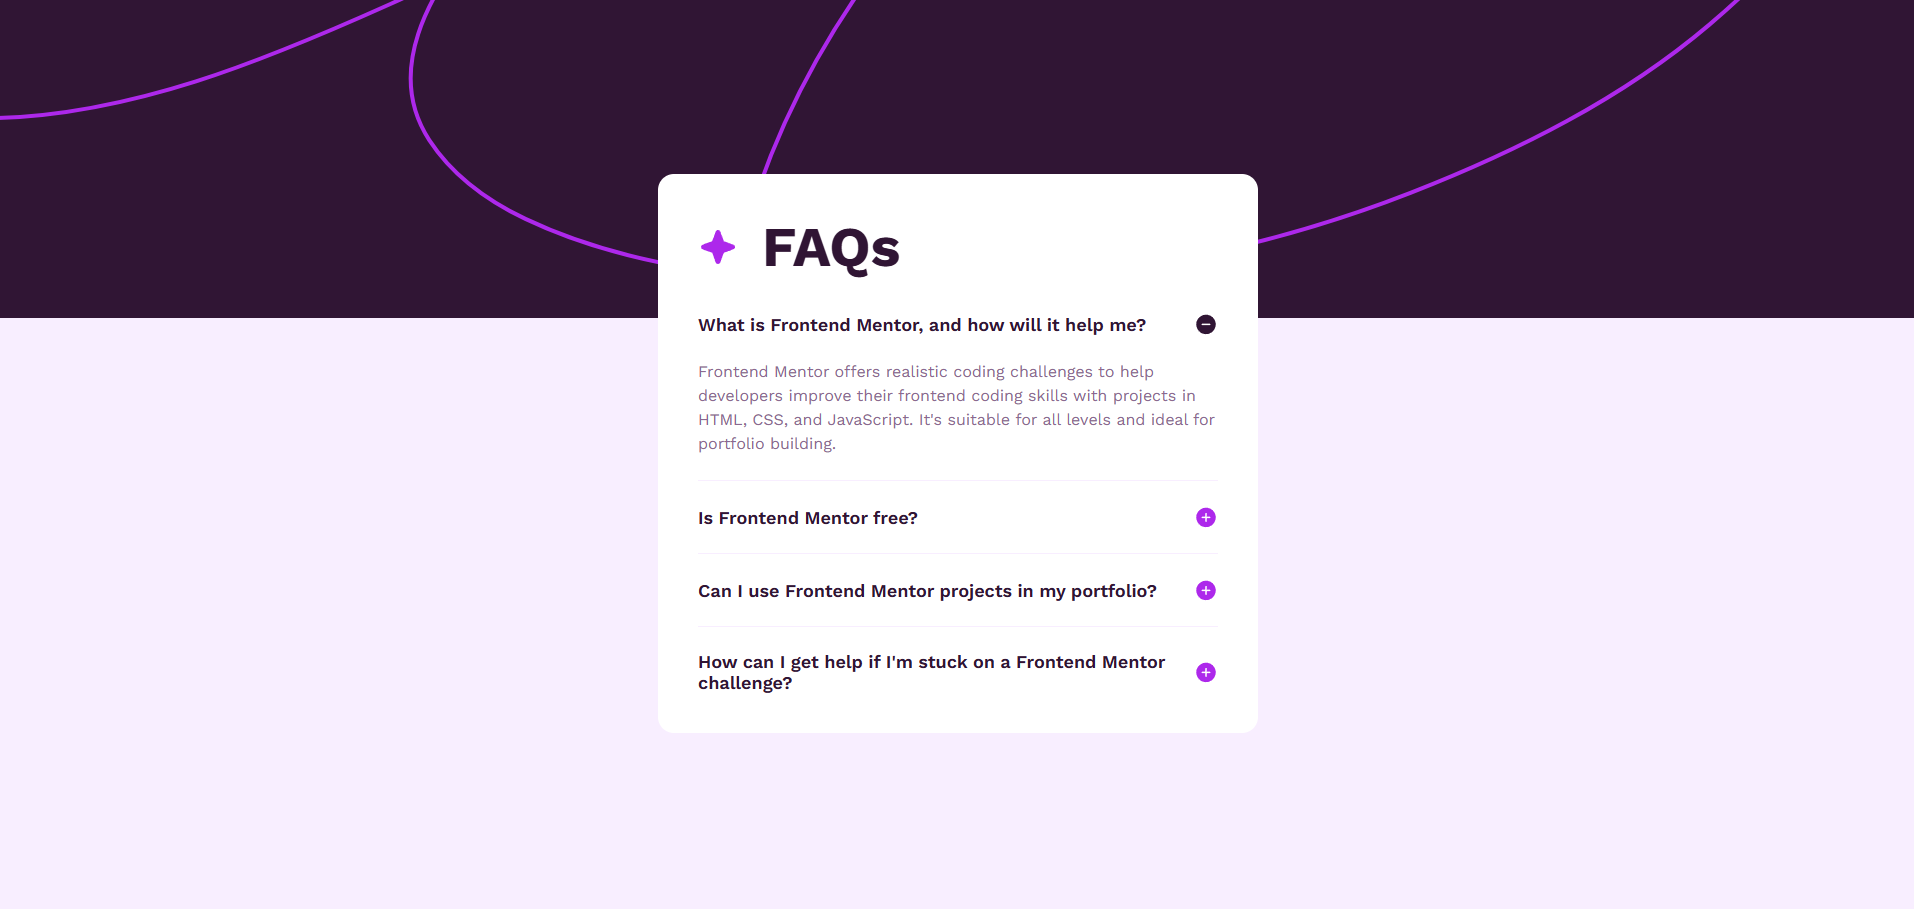
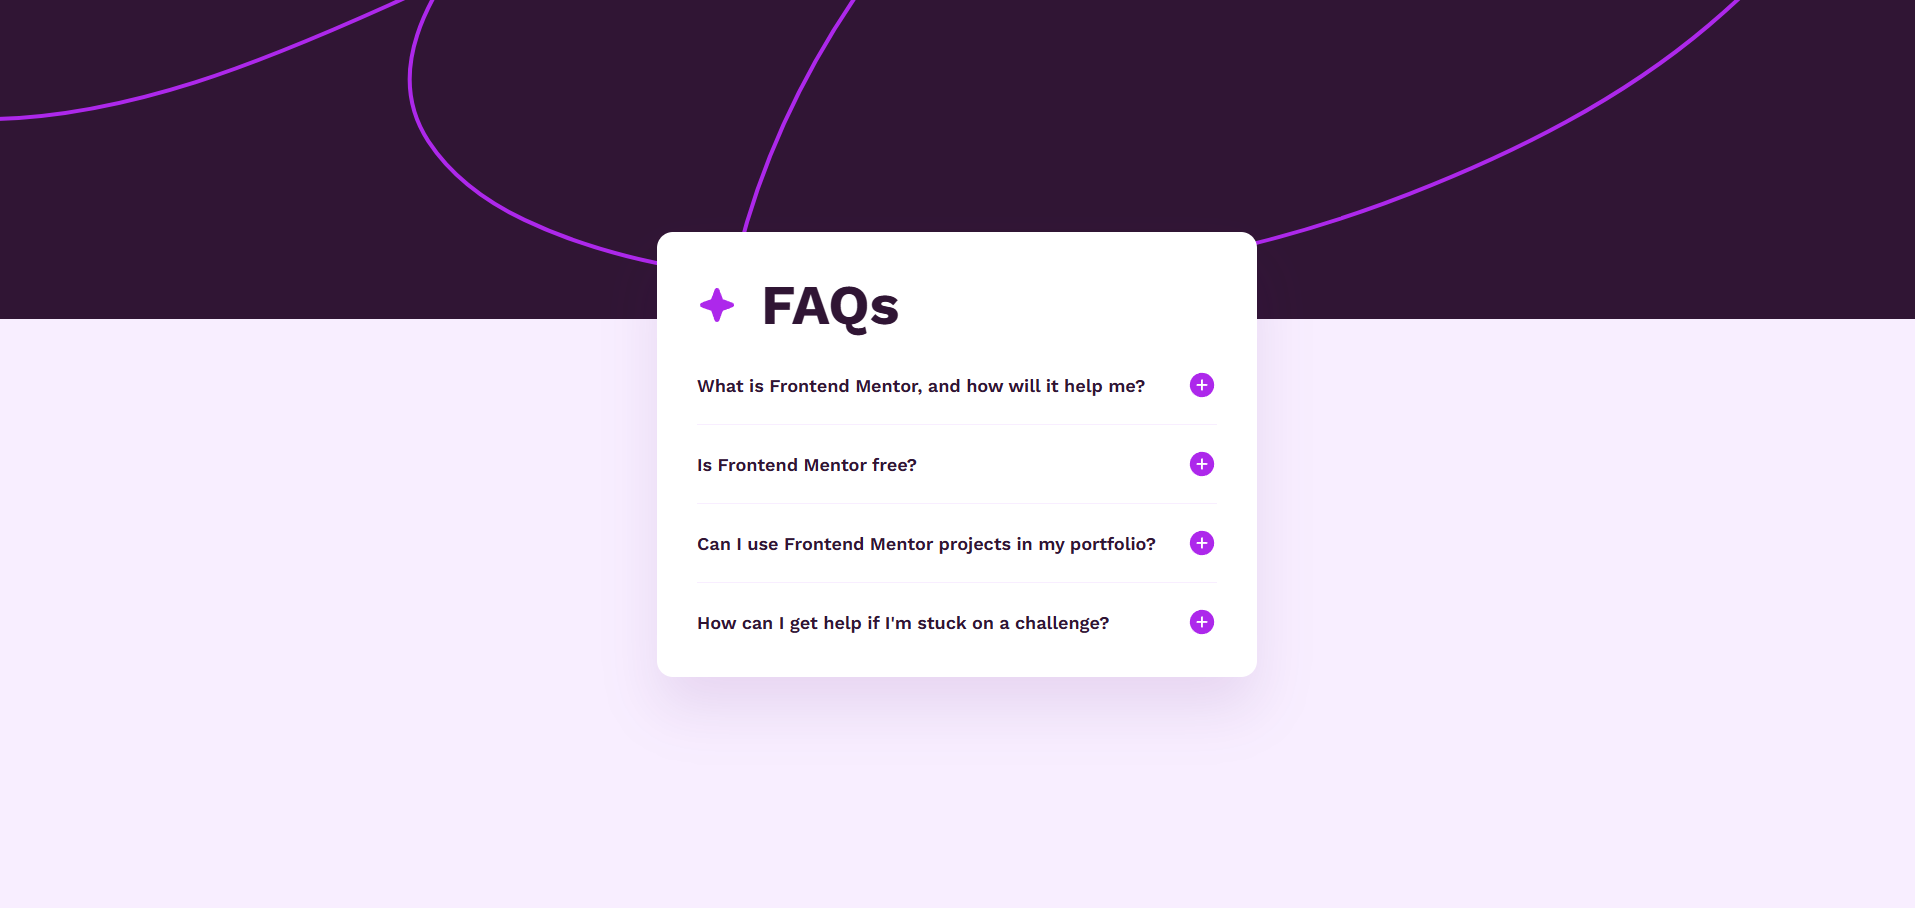
refactor(styles): enhance transition effects and improve accessibility for animations

diff --git a/assets/css/style.css b/assets/css/style.css
@@ -44,14 +44,22 @@
   --rounded-lg: 0.5rem;
   --rounded-2xl: 1rem;
 
-  --transition: 150ms ease;
+  --ease-out: cubic-bezier(0.23, 1, 0.32, 1);
+  --ease-standard: ease;
+  --duration-press: 120ms;
+  --duration-color: 140ms;
+  --duration-expand: 220ms;
+  --transition-color: color var(--duration-color) var(--ease-standard);
+  --transition-press: transform var(--duration-press) var(--ease-out);
 
   --acordion-width: 37.5rem;
 }
 
 @media (prefers-reduced-motion: reduce) {
   :root {
-    --transition: none;
+    --duration-press: 0ms;
+    --duration-color: 0ms;
+    --duration-expand: 0ms;
   }
 }
 
@@ -166,8 +174,8 @@ main {
 @media (prefers-reduced-motion: no-preference) {
   .faq__item::details-content {
     transition:
-      block-size 0.5s allow-discrete,
-      content-visibility 0.5s allow-discrete;
+      block-size var(--duration-expand) var(--ease-out) allow-discrete,
+      content-visibility var(--duration-expand) allow-discrete;
   }
 }
 
@@ -190,7 +198,8 @@ main {
   font-size: var(--fs-base);
   font-weight: var(--fw-semibold);
   padding-block: 1.25rem;
-  transition: color var(--transition);
+  transform-origin: left center;
+  transition: var(--transition-color), var(--transition-press);
 
   &:first-of-type {
     padding-block-start: 0;
@@ -208,19 +217,55 @@ main {
     color: var(--pink);
   }
 
+  &:active {
+    transform: scale(0.985);
+  }
+
   &::-webkit-details-marker {
     display: none;
   }
 
+  &::before,
   &::after {
     content: '';
+    grid-area: 1 / 2;
     inline-size: 1.875rem;
     aspect-ratio: 1;
-    background: url(../images/icon-plus.svg) 0 / cover;
+    background-position: center;
+    background-repeat: no-repeat;
+    background-size: cover;
+    transition:
+      opacity var(--duration-color) var(--ease-out),
+      transform var(--duration-expand) var(--ease-out);
+  }
+
+  @media (prefers-reduced-motion: reduce) {
+    &::before,
+    &::after {
+      transition: none;
+    }
+  }
+
+  &::before {
+    background-image: url(../images/icon-plus.svg);
+    opacity: 1;
+    transform: rotate(0deg) scale(1);
+  }
+
+  &::after {
+    background-image: url(../images/icon-minus.svg);
+    opacity: 0;
+    transform: rotate(-90deg) scale(0.85);
+  }
+
+  [open] &::before {
+    opacity: 0;
+    transform: rotate(90deg) scale(0.85);
   }
 
   [open] &::after {
-    background-image: url(../images/icon-minus.svg);
+    opacity: 1;
+    transform: rotate(0deg) scale(1);
   }
 }
 
